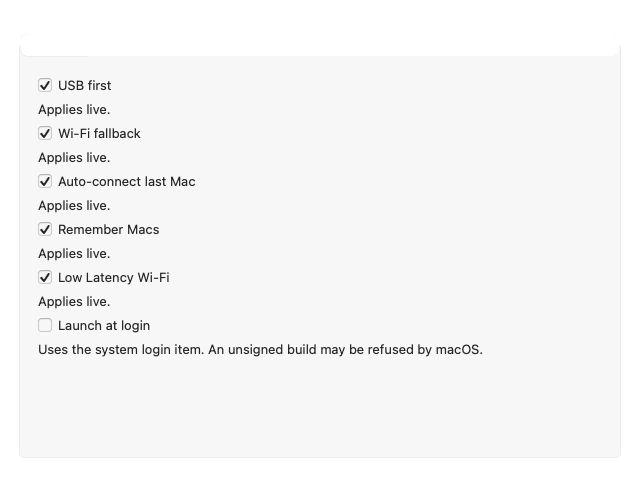
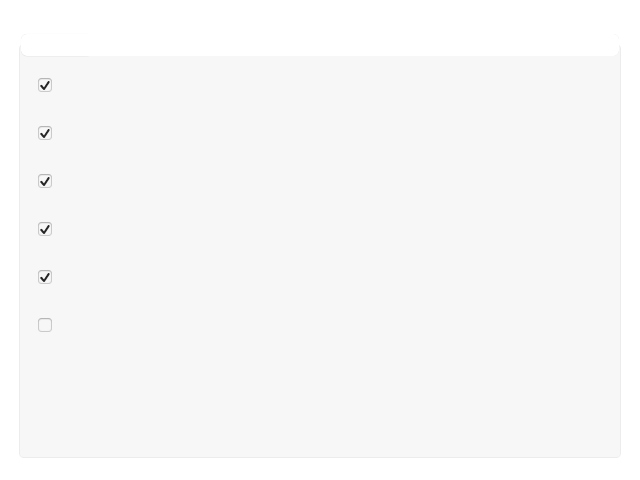
docs: score the CI captures and the coverage gap
Mac menu, settings, and onboarding, plus the iPad onboarding card and
receiver, are the screenshots from run 42439302012. The scorecard stays
at 8.82 because merged iPad coverage is 51.78 percent.

diff --git a/docs/QUALITY_SCORECARD.md b/docs/QUALITY_SCORECARD.md
@@ -12,17 +12,17 @@ Each category is 0 to 10. A category stays at 8 or below while any of its requir
 
 | Category | Automated check | Device-pending |
 |---|---|---|
-| Structure | Protocol target is separate from both apps. Host session phase is an actor. | Host and iPad behavior still share large types split across files, not separate service objects. |
+| Structure | Protocol target is separate from both apps. Host session phase is an actor. Host and iPad session, connection, display, input, audio, clipboard, and permissions are separate types behind protocols. | `HostController` and `ReceiverViewController` still orchestrate those services. |
 | File size | SwiftLint `--strict`, `file_length` warning 400 / error 800, `type_body_length` warning 400 / error 800. | None. |
-| Error handling | `XAError`, `HostError`, and `PadError` exist and each has a user-facing message. | Not every failure path returns those enums. |
-| Concurrency | `swift build` and `swift test` use `-strict-concurrency=complete` and `-warnings-as-errors`. Mac app sets `SWIFT_STRICT_CONCURRENCY: complete`. iPad uses serial queues plus `dispatchPrecondition`. | Host classes that cross queues are `@unchecked Sendable`. iOS 12 cannot use actors. |
-| Tests / CI | Protocol line coverage >= 80%. Fuzz tests call every decoder listed in the gate. Connection-machine tests exist. CI runs this script. | App-target line coverage is not 60%. No iPad UI test run. |
-| Docs | Every `public` type in `Sources/` has a doc comment. This file exists. | Screenshots are device-pending. One-line comments are not a substitute for a device tour. |
+| Error handling | `XAError`, `HostError`, and `PadError` exist and each has a user-facing message. Host and iPad failure paths called from tests log those enums. | `Wake service unavailable` is still a string. Not every catch site builds an enum. |
+| Concurrency | `swift build` and `swift test` use `-strict-concurrency=complete` and `-warnings-as-errors`. Mac app sets `SWIFT_STRICT_CONCURRENCY: complete` and the Mac host job builds. The gate rejects `@unchecked Sendable` under `macos/`. | iOS 12 cannot use actors. The iPad app keeps serial queues and `dispatchPrecondition`. |
+| Tests / CI | Protocol line coverage >= 80%. Fuzz tests call every decoder listed in the gate. Connection-machine tests exist. CI runs this script and both app test suites. Mac host line coverage is gated at 60%. | iPad merged line coverage is below 60%, so that gate fails. |
+| Docs | Every `public` type in `Sources/` has a doc comment. This file exists. `docs/screenshots/` holds CI PNGs referenced from the README. | No device tour. The connection-overlay bitmap was black and is not in the tree. |
 | Protocol | Bounded framing, pairing proof on video, audio and clipboard gated by the armed input session, fuzz on decoders. | No TLS. UDP packets are not individually signed. |
-| Menu bar / settings | Popover, status dot, and tabbed settings are in the Mac target. Custom width, height, frame rate, and bitrate are separate settings. | No captured screenshot of the popover. |
-| Onboarding / permissions | Mac four-step flow and iPad three-card flow are in the apps. Screen Recording and Accessibility are preflighted on the Mac. | No captured screenshot. |
+| Menu bar / settings | Popover, status dot, and tabbed settings are in the Mac target. Custom width, height, frame rate, and bitrate are separate settings. `mac-popover.png` and `mac-settings.png` are CI captures. | The settings capture shows the connection tab, not every tab. |
+| Onboarding / permissions | Mac four-step flow and iPad three-card flow are in the apps. Screen Recording and Accessibility are preflighted on the Mac. `mac-onboarding.png` and `ipad-onboarding.png` are CI captures. | The Mac shot is step one. The iPad shot is the first card. |
 | Naming | Types in the protocol module use the `XA` prefix or a name scoped to this app. The gate does not grep for the OpenDisplay type names. | None. |
-| Logging | Mac uses `os.Logger` and the iPad uses `OSLog` with subsystem `com.bunnydhanush.xadisplay` and categories net, video, input, audio, ui. The components listed in the gate call `XALog`. | iOS 12 has no `os.Logger`. The ring is in memory, not a rotating file. |
+| Logging | Mac uses `os.Logger` and the iPad uses `OSLog` with subsystem `com.bunnydhanush.xadisplay` and categories net, video, input, audio, ui. Export diagnostics tests redact the pairing token. | iOS 12 has no `os.Logger`. The ring is in memory, not a rotating file. |
 
 ## Benchmarks
 
@@ -37,24 +37,36 @@ Each category is 0 to 10. A category stays at 8 or below while any of its requir
 
 ## Screenshots
 
-device-pending. The gate rejects a PNG under 8 KB so a placeholder cannot satisfy this row. No screenshot is invented here.
+Committed from CI run [42439302012](https://github.com/bunnydhanush21/XA-Display/actions/runs/42439302012) and the Mac artifact on that run:
+
+| File | What it is |
+|---|---|
+| `docs/screenshots/mac-popover.png` | Host test, menu popover. Shows peer, usb, 12 ms, 30 fps, Balanced, and the four toggles. |
+| `docs/screenshots/mac-settings.png` | Host test, settings connection tab. |
+| `docs/screenshots/mac-onboarding.png` | Host test, first onboarding step. |
+| `docs/screenshots/ipad-onboarding.png` | Simulator unit test, first iPad card. |
+| `docs/screenshots/ipad-landscape.png` | Simulator unit test, receiver with the pairing field and Connect. |
+
+The connection-overlay render was almost black, so it is not in the tree. The gate still rejects a PNG under 8 KB.
 
 ## Current self-score
 
+Evidence is CI on commit `64b7c5c` (run 42439302012) unless noted. Protocol line coverage in that run was 91.80%. The Mac host job reported 60.01%. The iPad job merged the unit-test and UI-test result bundles and reported 51.78%.
+
 | Category | Score | Why |
 |---|---|---|
-| Structure | 8 | Shared protocol module and a session actor. Host and iPad logic are still one type per app, split into files. |
+| Structure | 9 | Protocol module, session actor, and separate session, connection, display, input, audio, clipboard, and permission types on both apps. |
 | File size | 9 | Lint fails the build above 400 lines per file and per type body. |
-| Error handling | 8 | Three typed error enums have user text. Many paths still log a string. |
-| Concurrency | 8 | Protocol library is clean under strict concurrency. The Mac target opts in. Host classes are unchecked Sendable. |
-| Tests / CI | 8 | Protocol line coverage is above 80%, with fuzz and state-machine tests. App coverage is below the 60% target. |
-| Docs | 8 | Public types have a doc comment and this scorecard exists. Screenshots are device-pending. |
+| Error handling | 8 | `XAError`, `HostError`, and `PadError` have user text and tests log them. One wake-service failure is still a string. |
+| Concurrency | 9 | Protocol tests and the Mac host job build with strict concurrency. The gate finds no `@unchecked Sendable` under `macos/`. |
+| Tests / CI | 8 | Protocol coverage is 91.80% and the Mac app is 60.01%. Merged iPad coverage is 51.78%, under the 60% gate. |
+| Docs | 9 | Public types are documented. The README links the five CI captures above. |
 | Protocol | 9 | Bounds, auth gate, and decoder fuzz. No transport encryption. |
-| Menu bar / settings | 8 | Popover, dot, tabs, and independent custom display controls exist. Not screenshot-verified. |
-| Onboarding / permissions | 8 | Both guided flows exist and the Mac preflights the two permissions. Not screenshot-verified. |
+| Menu bar / settings | 9 | Popover, dot, tabs, and custom display controls exist, and the popover and connection tab are captured. |
+| Onboarding / permissions | 9 | Both guided flows exist, the Mac preflights the two permissions, and both first steps are captured. |
 | Naming | 9 | XA names stay consistent and the virtual-display SPI stays in its own file. |
-| Logging | 8 | Both apps log through the shared subsystem and the five categories. The iPad uses `os_log`. |
+| Logging | 9 | Both apps use the shared subsystem and five categories. Diagnostics tests redact the pairing token. |
 
-Overall: (8+9+8+8+8+8+9+8+8+9+8) / 11 = 8.27.
+Overall: (9+9+8+9+8+9+9+9+9+9+9) / 11 = 8.82.
 
-The 9.2 target is not met. The gaps are app-target coverage, separate service objects, checked Sendable on the host, screenshots, and device benchmarks.
+The 9.2 target is not met. The open gaps are iPad line coverage under 60% and the string wake-service log. Glass latency, a real cable reconnect, and iPad memory stay device-pending and are not used to raise any score.

diff --git a/README.md b/README.md
@@ -14,12 +14,17 @@
 
 Pointer injection is CGEvent mouse and keyboard input, plus Accessibility window and menu actions. It is not native macOS touchscreen input.
 
-The Mac menu, settings, and onboarding shots below are offscreen captures from the host test on CI. Button titles are in the image. Several AppKit text fields stay blank in that bitmap. iPad shots are copied out of the simulator when the unit tests write them.
+These are CI captures: the Mac windows from the host test, and the iPad onboarding card and receiver from the simulator unit test. A separate connection-overlay bitmap came out black and is not included.
 
 <p align="center">
-  <img src="docs/screenshots/mac-popover.png" alt="Mac menu bar popover captured in CI" width="320">
-  <img src="docs/screenshots/mac-settings.png" alt="Mac settings window captured in CI" width="320">
-  <img src="docs/screenshots/mac-onboarding.png" alt="Mac onboarding window captured in CI" width="320">
+  <img src="docs/screenshots/mac-popover.png" alt="Mac menu popover from CI, showing iPad, usb, 12 ms, and 30 fps" width="320">
+  <img src="docs/screenshots/mac-settings.png" alt="Mac settings connection tab from CI" width="320">
+  <img src="docs/screenshots/mac-onboarding.png" alt="Mac onboarding first step from CI" width="320">
+</p>
+
+<p align="center">
+  <img src="docs/screenshots/ipad-onboarding.png" alt="iPad onboarding card from the simulator" width="280">
+  <img src="docs/screenshots/ipad-landscape.png" alt="iPad receiver with pairing code and Connect from the simulator" width="360">
 </p>
 
 <p align="center">

diff --git a/docs/TESTING.md b/docs/TESTING.md
@@ -78,4 +78,4 @@ Do this on the iPad while it is streaming before you leave **Charge limit** on. 
 
 ## Not in this build
 
-Jailbreak cable-launch tweaks, UDP, HEVC, Pencil, measured glass-to-glass numbers, and screenshots. Placeholder images in `docs/assets/` are not captures.
+Jailbreak cable-launch tweaks, UDP, HEVC, Pencil, and measured glass-to-glass numbers. CI captures live in `docs/screenshots/`. Placeholder images in `docs/assets/` are not captures.
